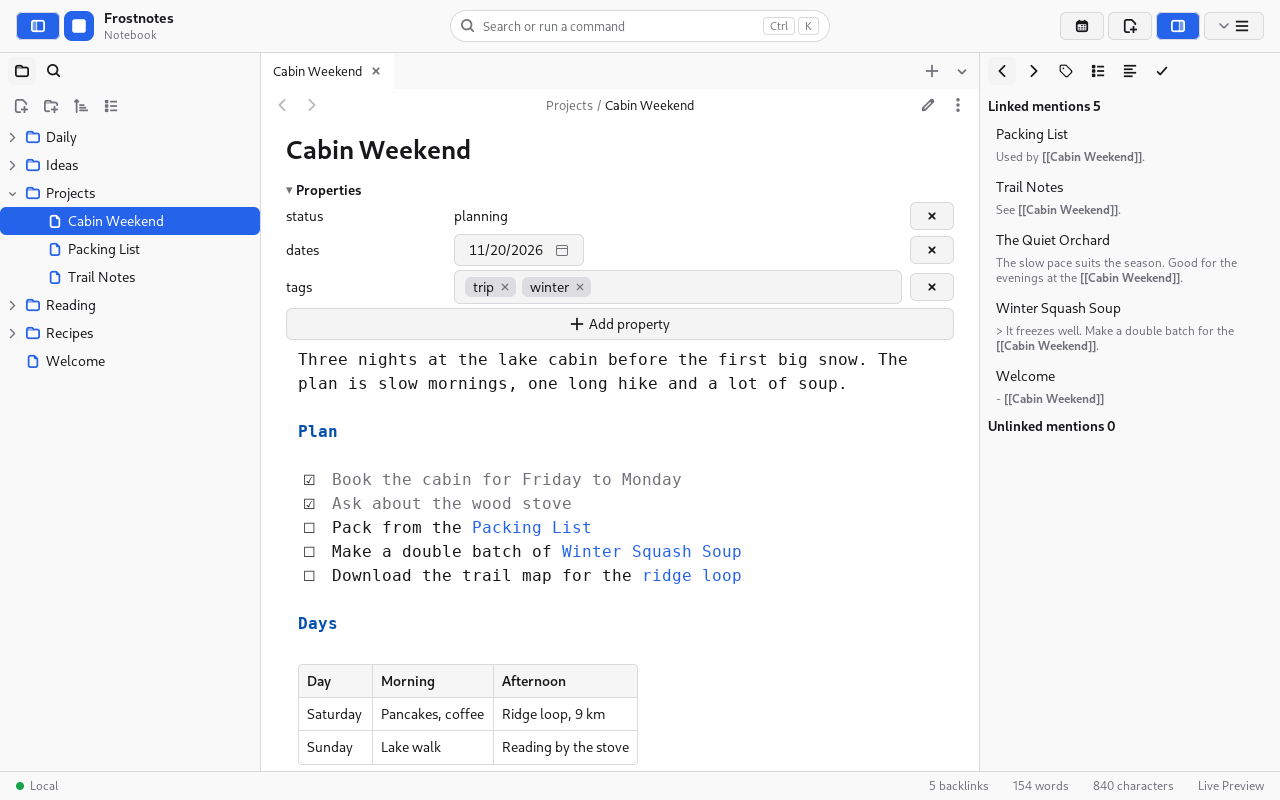
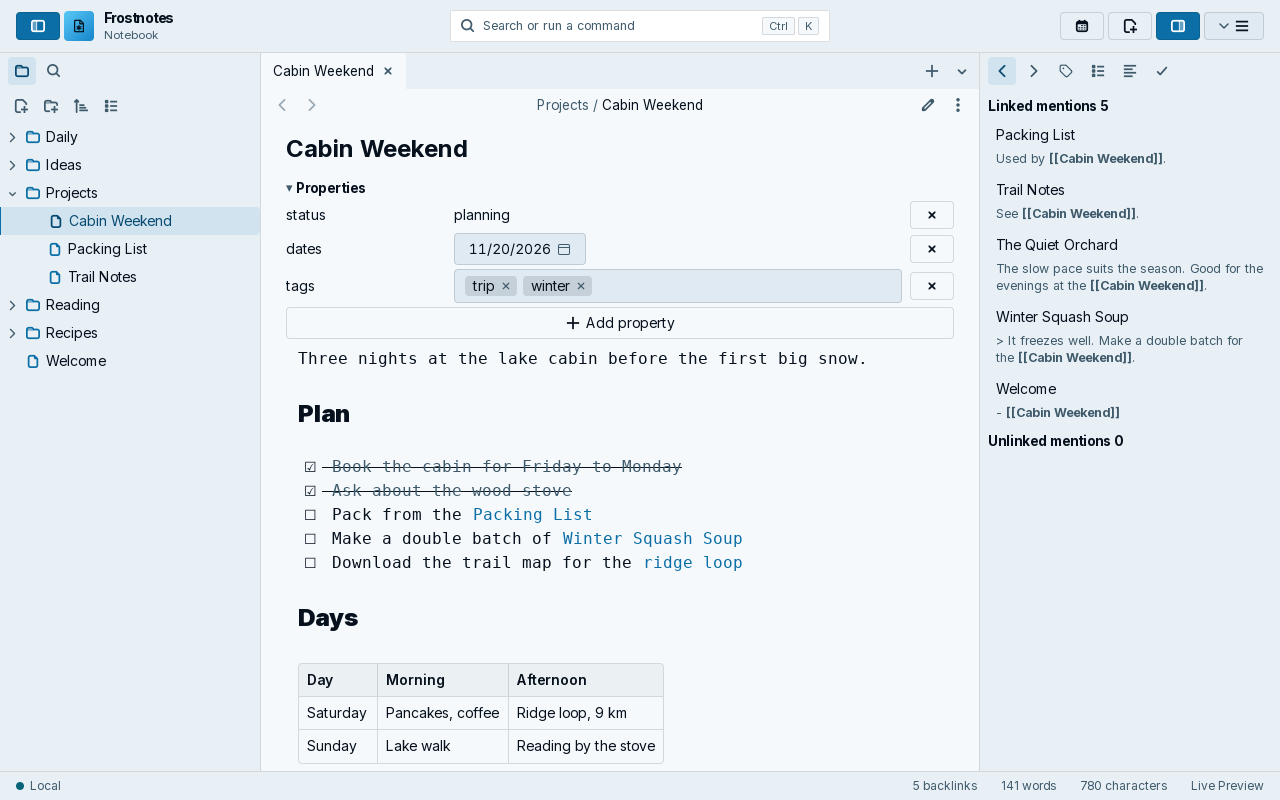
docs: show the Frostyard look in the README and the store screenshots
make screenshots retakes the Flatpak metainfo's 4 screenshots in
frostui's Frostyard look (ADR-0042) and takes a fifth, the editor in
Frostyard dark, which the README shows as its hero above a gallery of
the other 4.

The shots' setup, not the app, changes: the test registers the app's
logo for the brand tile, as cmd/frostnotes does, instead of the kit's
stand-in icon; the trip note's first paragraph is one sentence so its
table no longer runs under the status bar; and the search shot puts the
caret on the recipe's last step instead of the empty line after its
callout. The PNGs are re-encoded losslessly at best compression.

diff --git a/internal/desktop/window/screenshots_test.go b/internal/desktop/window/screenshots_test.go
@@ -7,6 +7,7 @@ import (
 	"io/fs"
 	"os"
 	"path/filepath"
+	"strings"
 	"testing"
 	"time"
 
@@ -15,19 +16,26 @@ import (
 	"github.com/frostyard/frostnotes/internal/desktop/workspace"
 )
 
-// TestMetainfoScreenshots takes the Flatpak metainfo's screenshots (make
-// screenshots) at 1280 x 800, on a notesd with a copy of the made-up vault
-// in dev/screenshots/vault: no real person, address or note.
+// TestMetainfoScreenshots takes the Flatpak metainfo's screenshots and the
+// README's dark editor (make screenshots) at 1280 x 800, on a notesd with a
+// copy of the made-up vault in dev/screenshots/vault: no real person,
+// address or note.
 func TestMetainfoScreenshots(t *testing.T) {
 	dir := os.Getenv("FROSTNOTES_SCREENSHOTS")
 	if dir == "" {
 		t.Skip("make screenshots sets FROSTNOTES_SCREENSHOTS")
 	}
-	frostui.SetIcons(frostui.NewIcons(nil))
+	// The brand tile draws the app's logo, as cmd/frostnotes registers it,
+	// rather than the kit's stand-in for an unknown icon.
+	logo, err := os.ReadFile(filepath.Join("..", "..", "..", "cmd", "frostnotes", "logo.svg"))
+	if err != nil {
+		t.Fatal(err)
+	}
+	frostui.SetIcons(frostui.NewIcons(map[string][]byte{"org.frostyard.Frostnotes-symbolic": logo}))
 	f := start(t)
 	f.tt.SetSize(1280, 800)
 	root := filepath.Join("..", "..", "..", "dev", "screenshots", "vault")
-	err := filepath.WalkDir(root, func(p string, d fs.DirEntry, err error) error {
+	err = filepath.WalkDir(root, func(p string, d fs.DirEntry, err error) error {
 		if err != nil || d.IsDir() {
 			return err
 		}
@@ -68,7 +76,9 @@ func TestMetainfoScreenshots(t *testing.T) {
 			t.Fatal(err)
 		}
 	}
-	open := func(p string) {
+	// open opens p with the caret just after the first after in its text,
+	// or at its end when after is empty, and shows its top.
+	open := func(p, after string) {
 		t.Helper()
 		f.a.open(p, workspace.Here)
 		f.until(p, func() bool {
@@ -76,20 +86,30 @@ func TestMetainfoScreenshots(t *testing.T) {
 			return f.a.activeFile() == p && e != nil && e.Binding().Document().Loaded()
 		})
 		e := f.a.activeEditor()
-		end := len(e.Binding().Document().Text())
-		e.State.Select(end, end)
+		text := e.Binding().Document().Text()
+		at := len(text)
+		if after != "" {
+			i := strings.Index(text, after)
+			if i < 0 {
+				t.Fatalf("no %q in %s", after, p)
+			}
+			at = i + len(after)
+		}
+		e.State.Select(at, at)
 		settle()
 		e.State.ScrollTo(0)
 	}
 
-	open("Projects/Cabin Weekend.md")
+	open("Projects/Cabin Weekend.md", "")
 	shot("editor")
 
-	open("Recipes/Winter Squash Soup.md")
+	// The caret ends the last step: on the empty line after the callout,
+	// the caret's line would draw as an empty band.
+	open("Recipes/Winter Squash Soup.md", "black pepper.")
 	f.a.searchFor("soup")
 	shot("search")
 
-	open("Projects/Cabin Weekend.md")
+	open("Projects/Cabin Weekend.md", "")
 	f.a.Store.Update(func(w *workspace.Workspace) {
 		w.SelectPane(workspace.SideLeft, "files")
 		w.SelectPane(workspace.SideRight, "tasks")
@@ -97,7 +117,11 @@ func TestMetainfoScreenshots(t *testing.T) {
 	shot("tasks")
 
 	f.tt.SetDark(true)
-	open("Reading/The Quiet Orchard.md")
+	open("Projects/Cabin Weekend.md", "")
+	f.a.Store.Update(func(w *workspace.Workspace) { w.SelectPane(workspace.SideRight, "backlinks") })
+	shot("editor-dark")
+
+	open("Reading/The Quiet Orchard.md", "")
 	f.a.run("markdown:toggle-preview")
 	f.a.Store.Update(func(w *workspace.Workspace) { w.SelectPane(workspace.SideRight, "outline") })
 	f.until("the reading view", func() bool { return f.a.activeEditor() == nil })

diff --git a/README.md b/README.md
@@ -16,6 +16,8 @@ serves them to a web app and to agents.
 
 **Documentation:** [docs/README.md](docs/README.md)
 
+![The desktop app in the Frostyard dark theme: a trip note in live preview with its properties, tasks and a table, the vault's folders on the left and the note's backlinks on the right](docs/images/editor-dark.png)
+
 ## What it does
 
 - **Your files are the notes.** A note is a `.md` file with YAML
@@ -31,8 +33,8 @@ serves them to a web app and to agents.
   notesd in a hub role, which keeps every revision and merges concurrent
   edits. No conflict copies. [Sync design](docs/design/sync.md)
 - **The desktop app** is a native Go app on MyGo and frostui with live
-  preview, a sibling of
-  [Frostmail](https://github.com/frostyard/frostmail). [App design](docs/design/app.md)
+  preview, drawn in frostui's Frostyard look, dark or light. It is a
+  sibling of [Frostmail](https://github.com/frostyard/frostmail). [App design](docs/design/app.md)
 - **The web app** is a React UI with a CodeMirror 6 editor, served by
   [lodge](https://github.com/frostyard/lodge), frostyard's tailnet-only
   web shell, with Obsidian's phone layout on a narrow screen.
@@ -41,6 +43,13 @@ serves them to a web app and to agents.
   locally, or lodge's `/mcp/notes` with a scoped token. [MCP tools](docs/specs/mcp.md)
 - **Obsidian vaults open as they are:** wikilinks, embeds, tags, callouts
   and properties. [Markdown dialect](docs/specs/markdown.md)
+
+| | |
+| --- | --- |
+| ![The trip note in live preview, in the Frostyard light theme](docs/images/editor.png) | ![A search for “soup” across the vault, beside a recipe whose note callout is drawn as a banner](docs/images/search.png) |
+| ![The Tasks pane: every open task in the vault, grouped by note, beside the trip note](docs/images/tasks.png) | ![A book note in the reading view, in the Frostyard dark theme, with its outline in the right pane](docs/images/dark.png) |
+
+<sub>The screenshots show a made-up vault (`dev/screenshots/vault`).</sub>
 
 ## Install
 

diff --git a/docs/design/app.md b/docs/design/app.md
@@ -781,9 +781,14 @@ and [core ADR-0058](https://github.com/frostyard/core/blob/main/docs/adr/0058-sh
 built in [M6](../plans/0002-roadmap.md) (core's
 [Plan 0010, Phase 5](https://github.com/frostyard/core/blob/main/docs/plans/0010-suite-packaging.md)).
 The desktop app installs as `org.frostyard.Frostnotes`, from `packaging/flatpak/`.
-The metainfo lists 4 screenshots in `docs/images`, taken by `make screenshots`
-(`dev/screenshots/vault`, a made-up vault, drawn by MyGo's Tester), and
-`internal/packagecheck` checks them.
+The metainfo lists 4 screenshots in `docs/images`: the editor, search and
+the Tasks pane in Frostyard light, and the reading view in Frostyard. The
+README shows them under a fifth, the editor in Frostyard
+(`editor-dark.png`), which the metainfo does not list. `make screenshots`
+takes all 5 at 1280 x 800 (`TestMetainfoScreenshots`, on
+`dev/screenshots/vault`, a made-up vault, drawn by MyGo's Tester with the
+app's logo in the brand tile, as `cmd/frostnotes` registers it), and
+`internal/packagecheck` checks the metainfo's 4.
 
 - **What is inside.** `/app/bin/frostnotes` is the launcher, `/app/bin/notesd`
   and `/app/bin/notesctl` are the Go binaries, and `/app/libexec/frostnotes-app`

diff --git a/docs/adr/0042-the-desktop-app-takes-frostuis-frostyard-look.md b/docs/adr/0042-the-desktop-app-takes-frostuis-frostyard-look.md
@@ -55,7 +55,8 @@ who chose an accent on the desktop no longer sees it in Frostnotes. Live
 preview mixes two families: Inter on heading lines, through MyGo's per-line
 styles, and the monospaced font on the rest, at the Font size setting, which
 the desktop's text size does not change. The Flatpak's metainfo screenshots
-(`make screenshots`) show the former look until they are taken again.
+and the README's (`make screenshots`) show this look; they were taken again
+in it on 2026-11-11.
 
 ## Alternatives considered
 

diff --git a/dev/screenshots/vault/Projects/Cabin Weekend.md b/dev/screenshots/vault/Projects/Cabin Weekend.md
@@ -3,7 +3,7 @@ status: planning
 dates: 2026-11-20
 tags: [trip, winter]
 ---
-Three nights at the lake cabin before the first big snow. The plan is slow mornings, one long hike and a lot of soup.
+Three nights at the lake cabin before the first big snow.
 
 ## Plan
 
